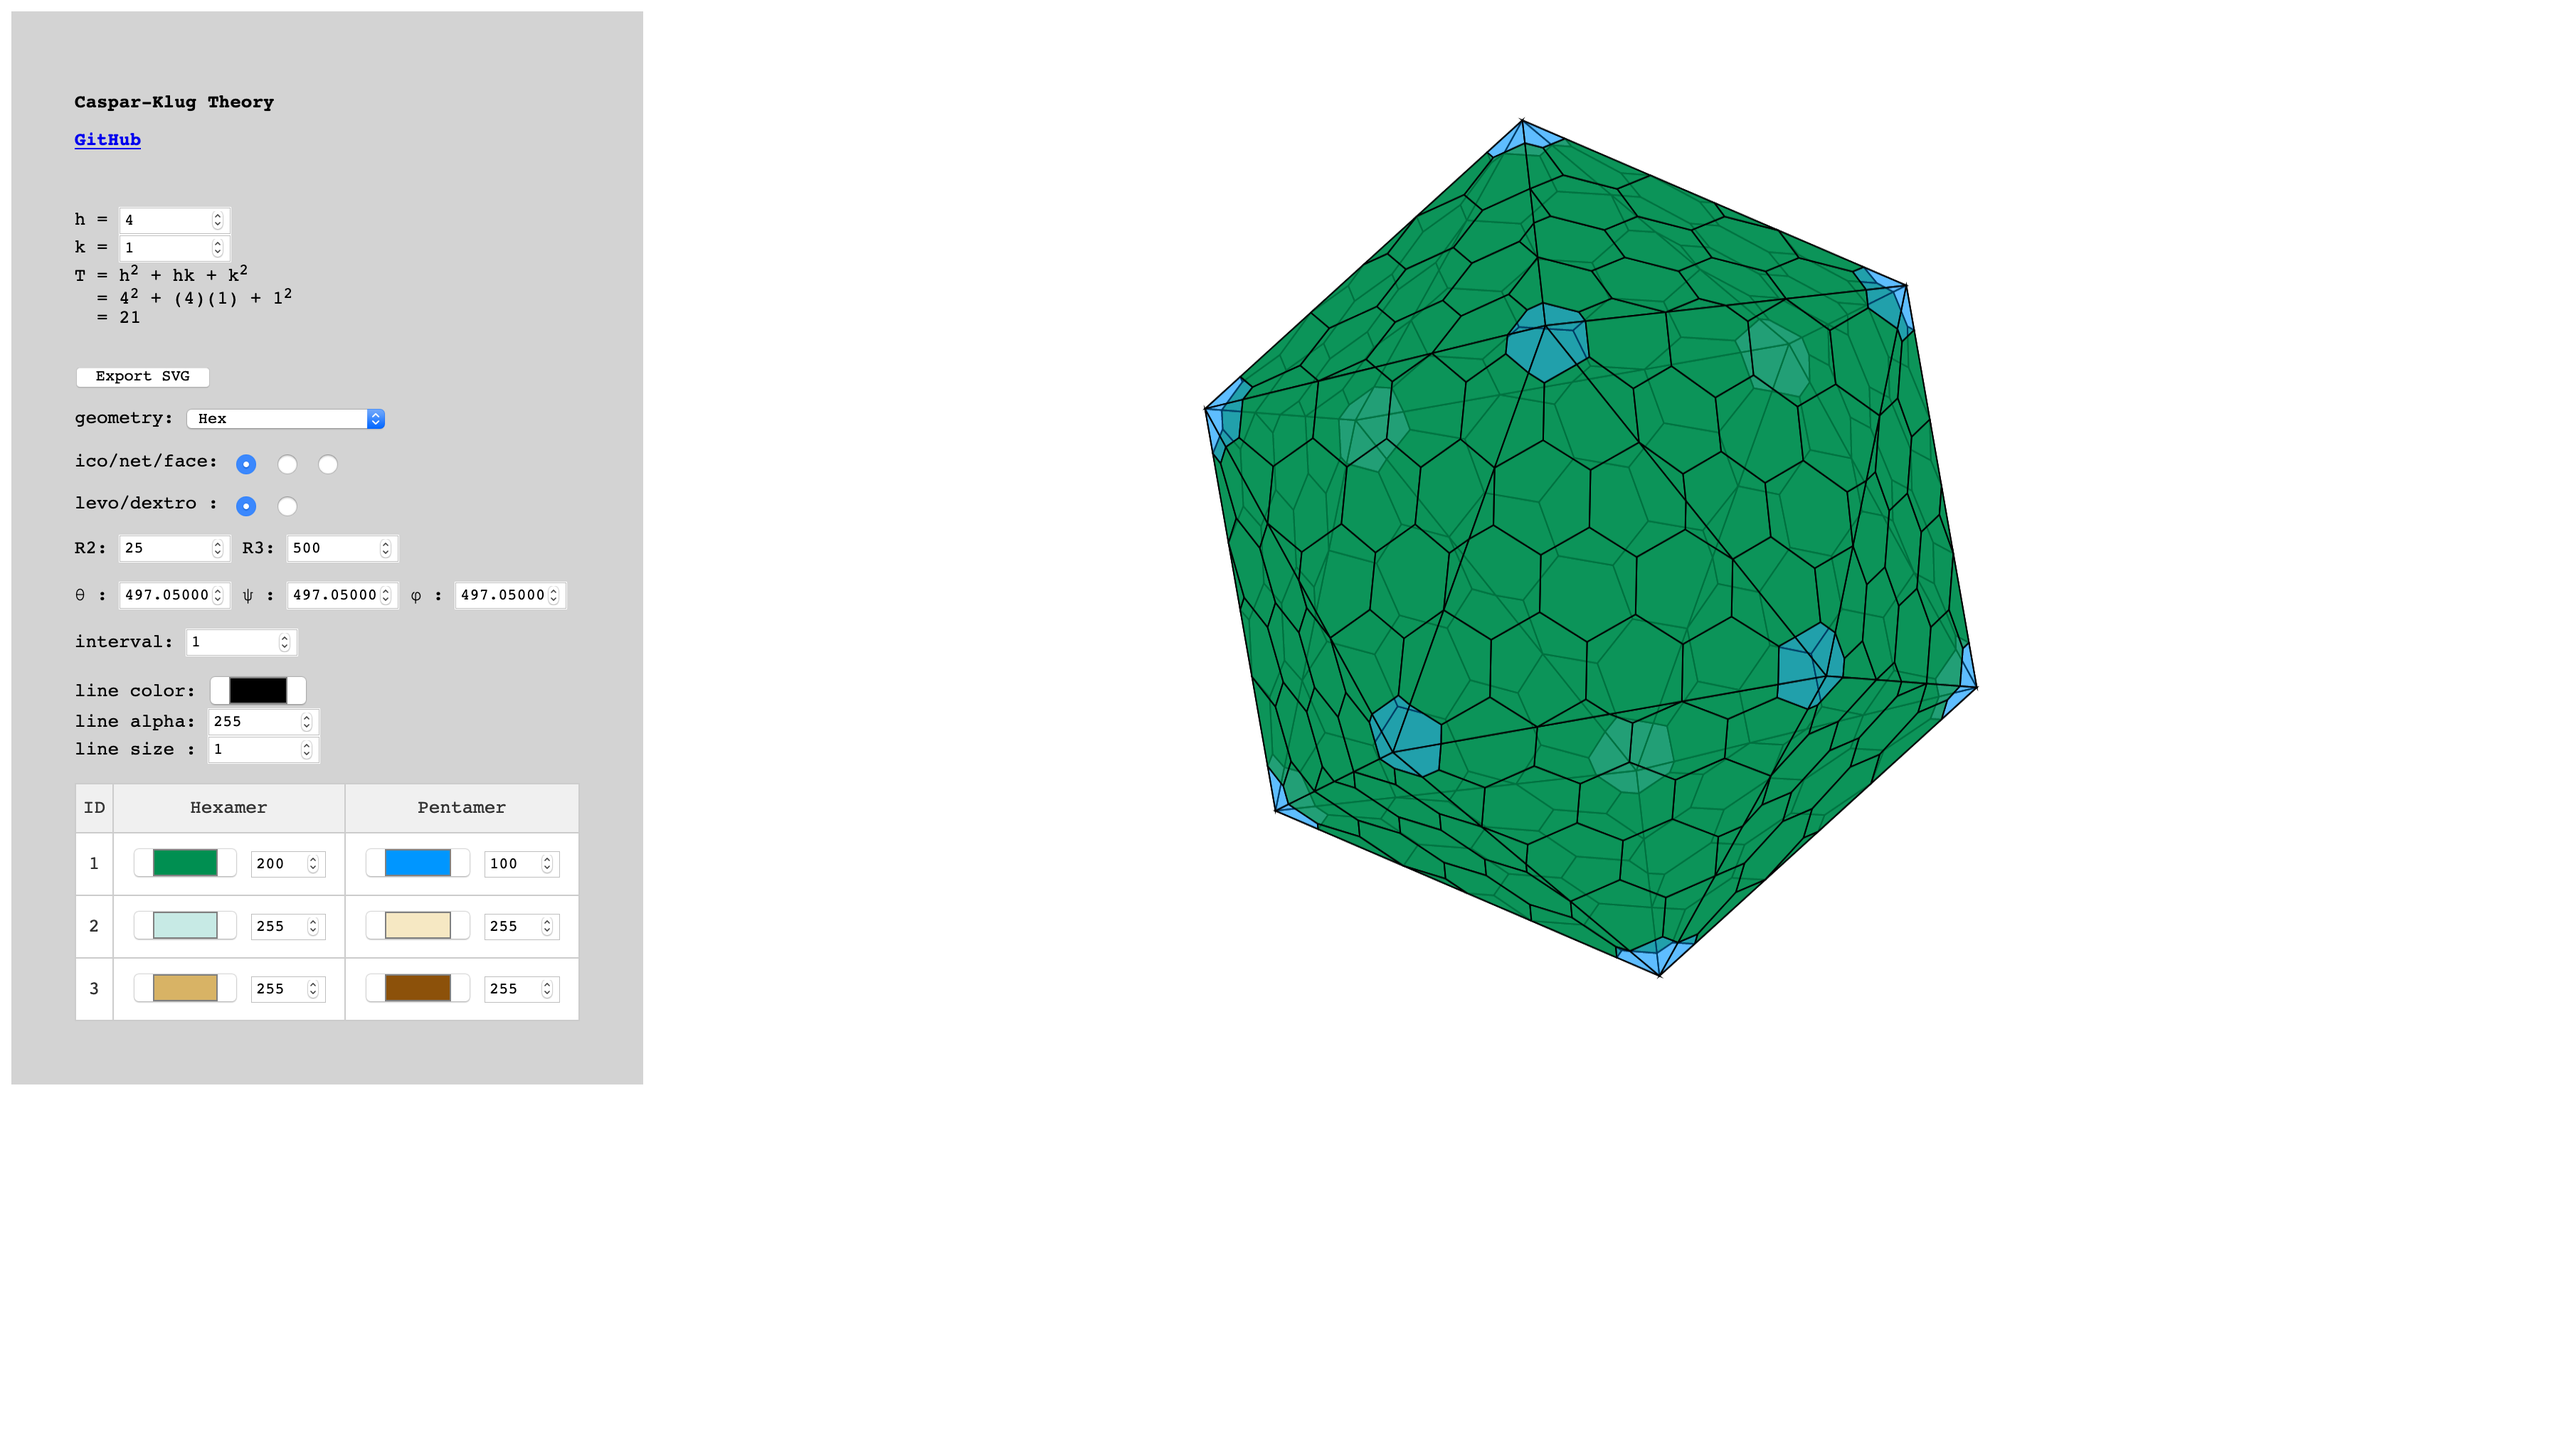
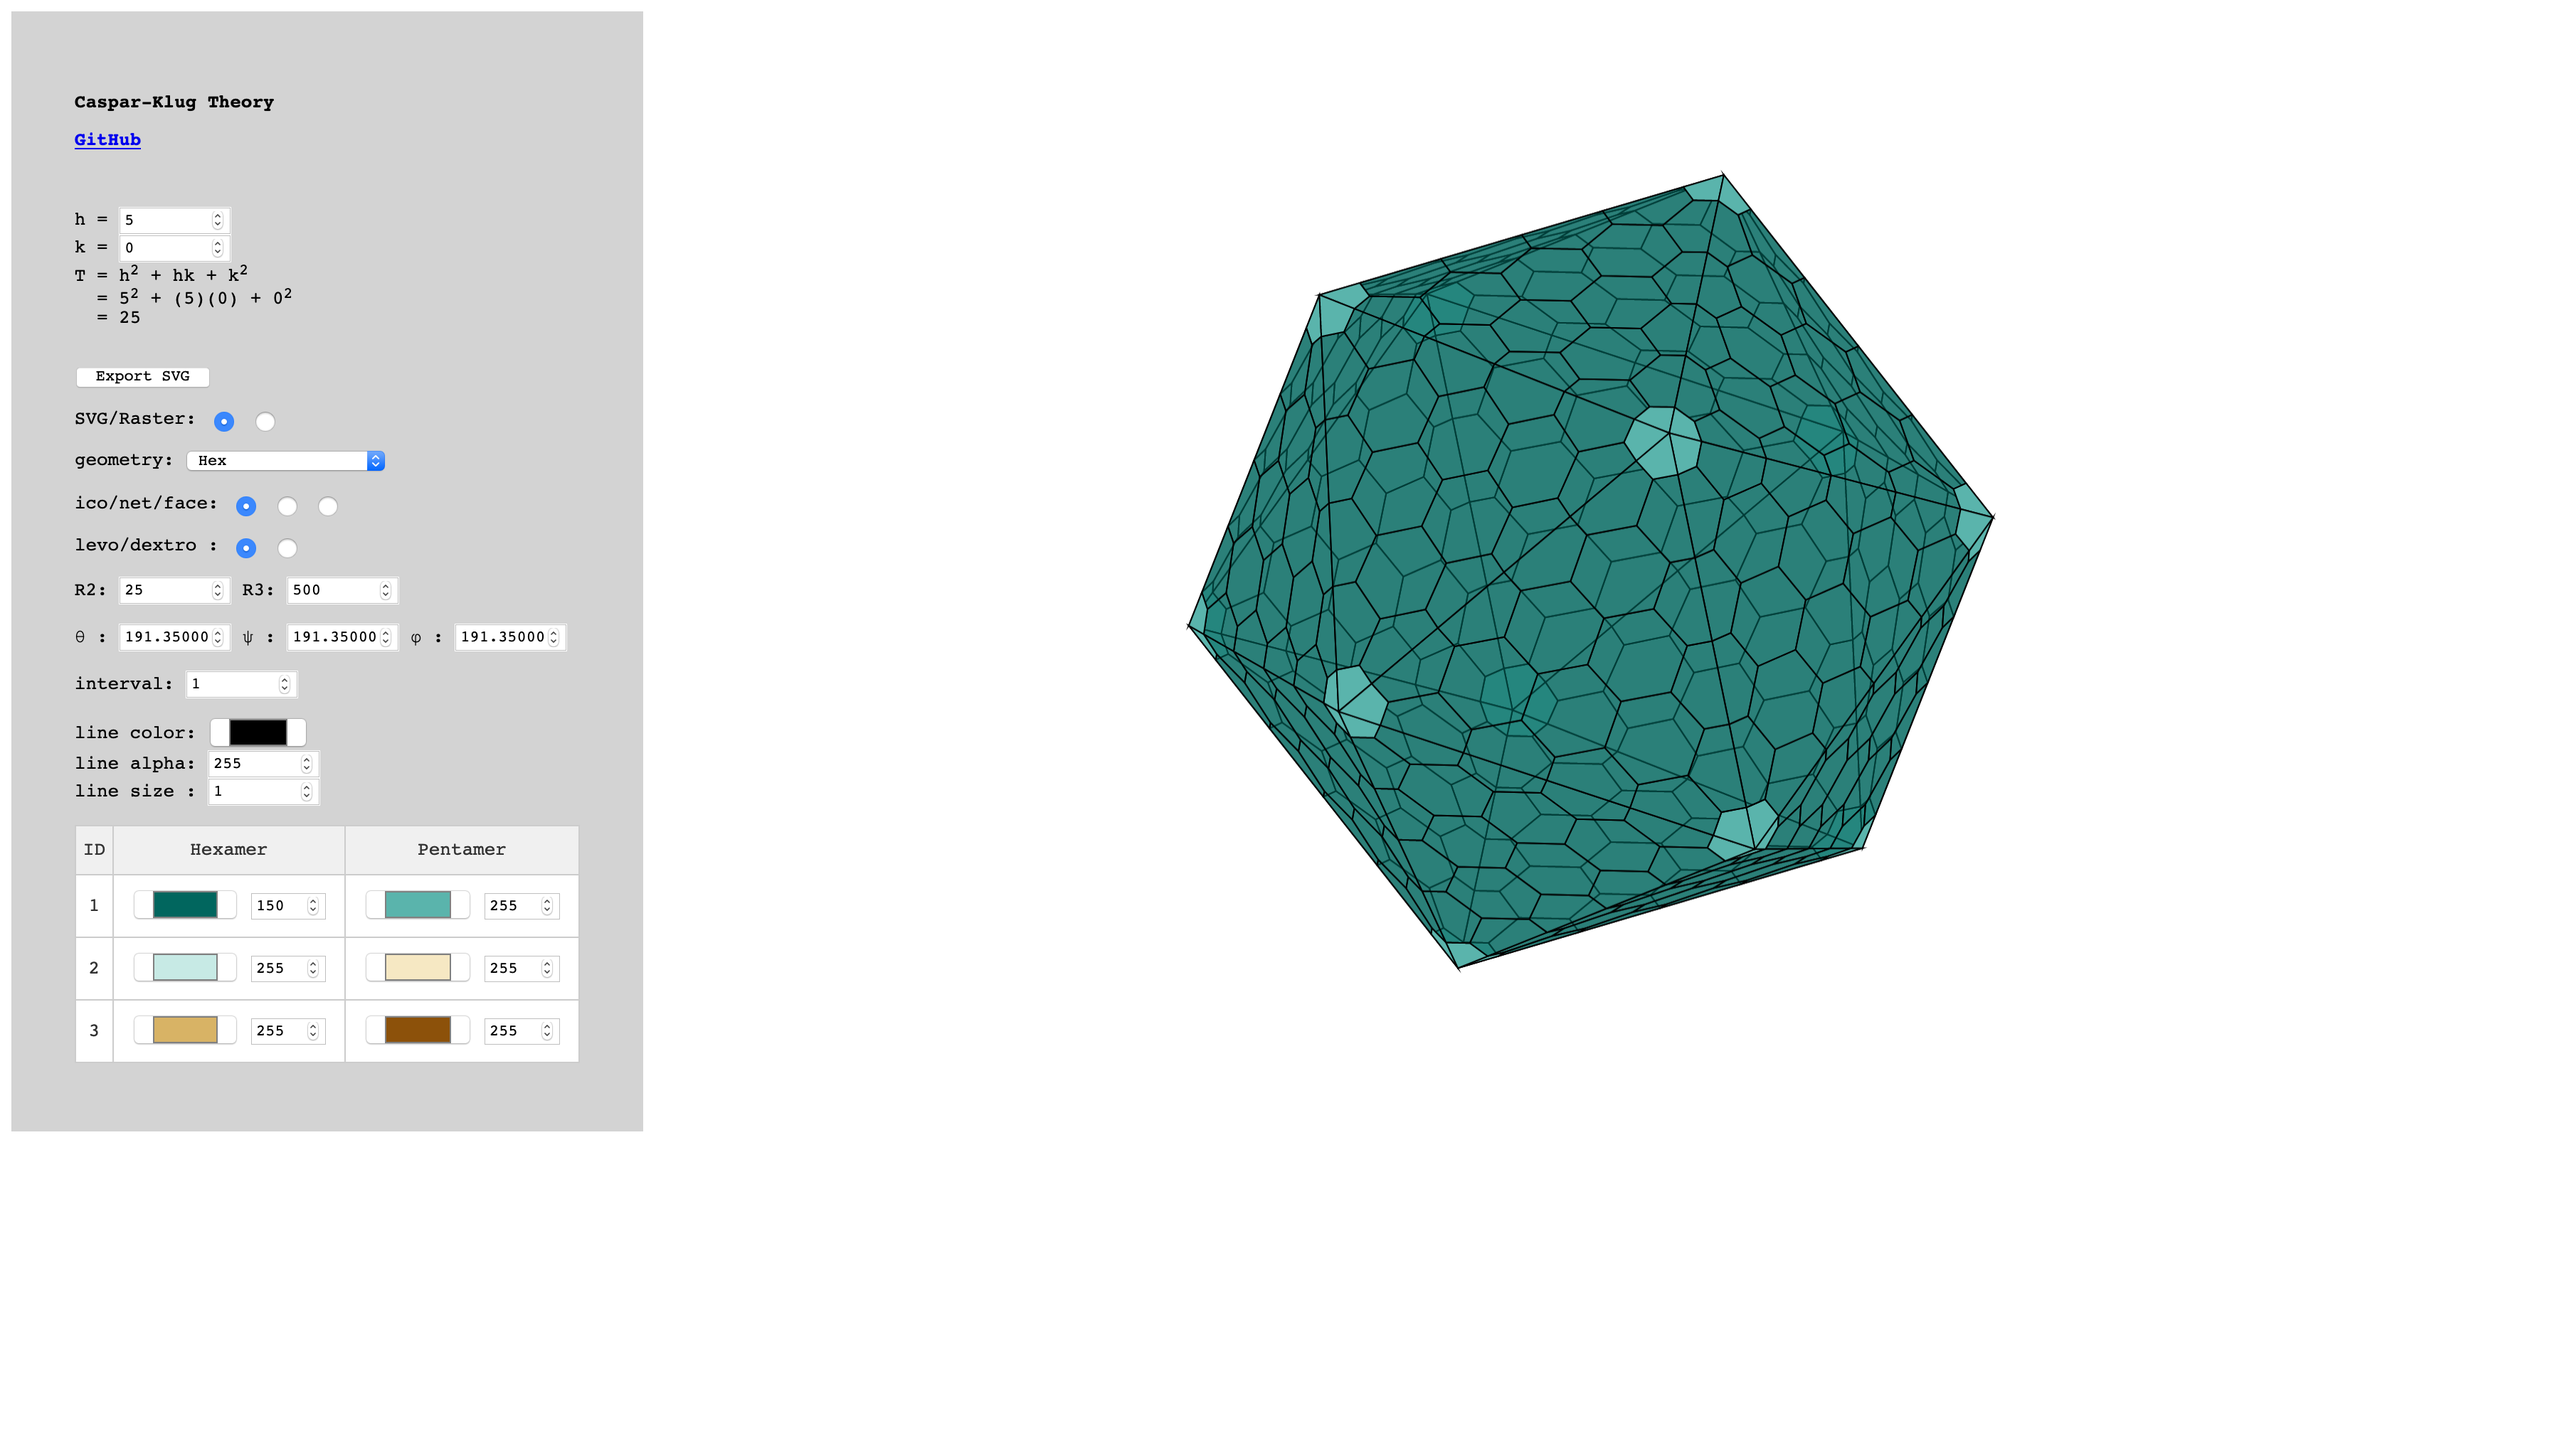
add raster mode

Changed region(s): [[0.4688, 0.0616, 0.7812, 0.6774], [0.0, 0.2771, 0.25, 0.8006]]

diff --git a/js/app.js b/js/app.js
@@ -104,6 +104,11 @@ function drawFace() {
         }
     }
     face = hex.face(opt.h, opt.k, style);
+    if (eid("raster").checked) {
+        var rasterized = face.rasterize();
+        face.remove();
+        face = rasterized;
+    }
 }
 
 function redraw(ele) {
@@ -139,6 +144,9 @@ window.onload = function () {
         eid(e).addEventListener("change", getOpt)
     );
 
+    ["svg", "raster"]
+        .map(eid)
+        .forEach(e => e.addEventListener("change", drawFace));
     ["geometry", "R2"]
         .map(eid)
         .forEach(e => e.addEventListener("change", drawHex));
@@ -153,7 +161,10 @@ window.onload = function () {
     ["θ", "ψ", "φ"]
         .map(eid)
         .forEach(e => e.addEventListener("change", updateCam));
-    ["h", "k", "geometry", "levo", "dextro", "ico", "net", "face", "R2", "R3", "θ", "ψ", "φ"]
+    []
+        .concat(["h", "k", "svg", "raster", "geometry"])
+        .concat(["levo", "dextro", "ico", "net", "face"])
+        .concat(["R2", "R3", "θ", "ψ", "φ"])
         .map(eid).forEach(e => e.addEventListener("change", redraw));
 
     eid("export").addEventListener("click", exportSVG);

diff --git a/capsid.html b/capsid.html
@@ -29,6 +29,11 @@
             <button id="export">Export SVG</button>
             <br><br>
 
+            <label for="mode">SVG/Raster:</label>
+            <input type="radio" name="mode" id="svg" checked>
+            <input type="radio" name="mode" id="raster">
+            <br><br>
+
             <label for="geometry">geometry:</label>
             <select id="geometry">
                 <option value="Hex">Hex</option>
